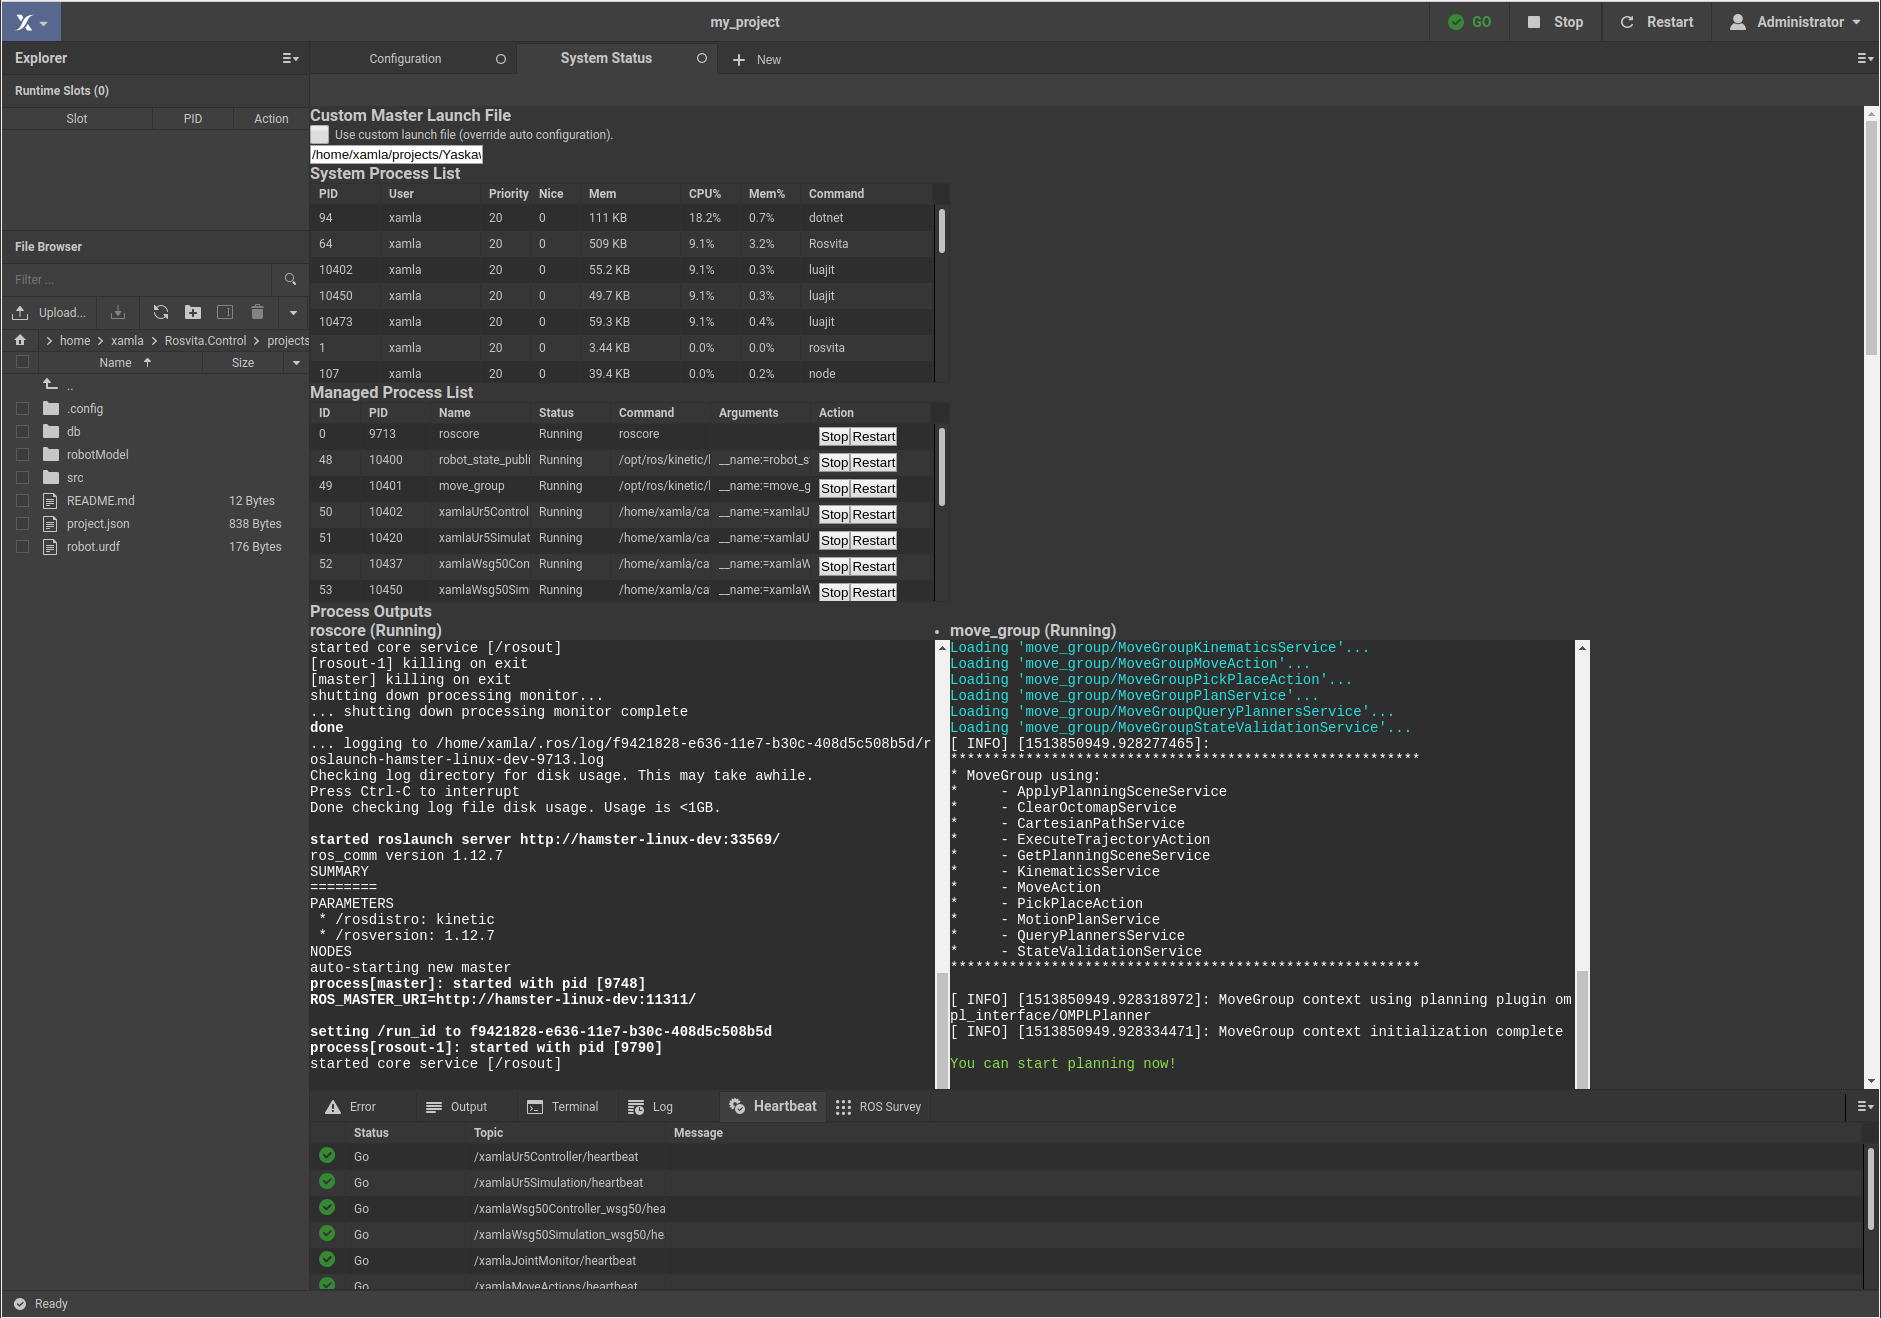
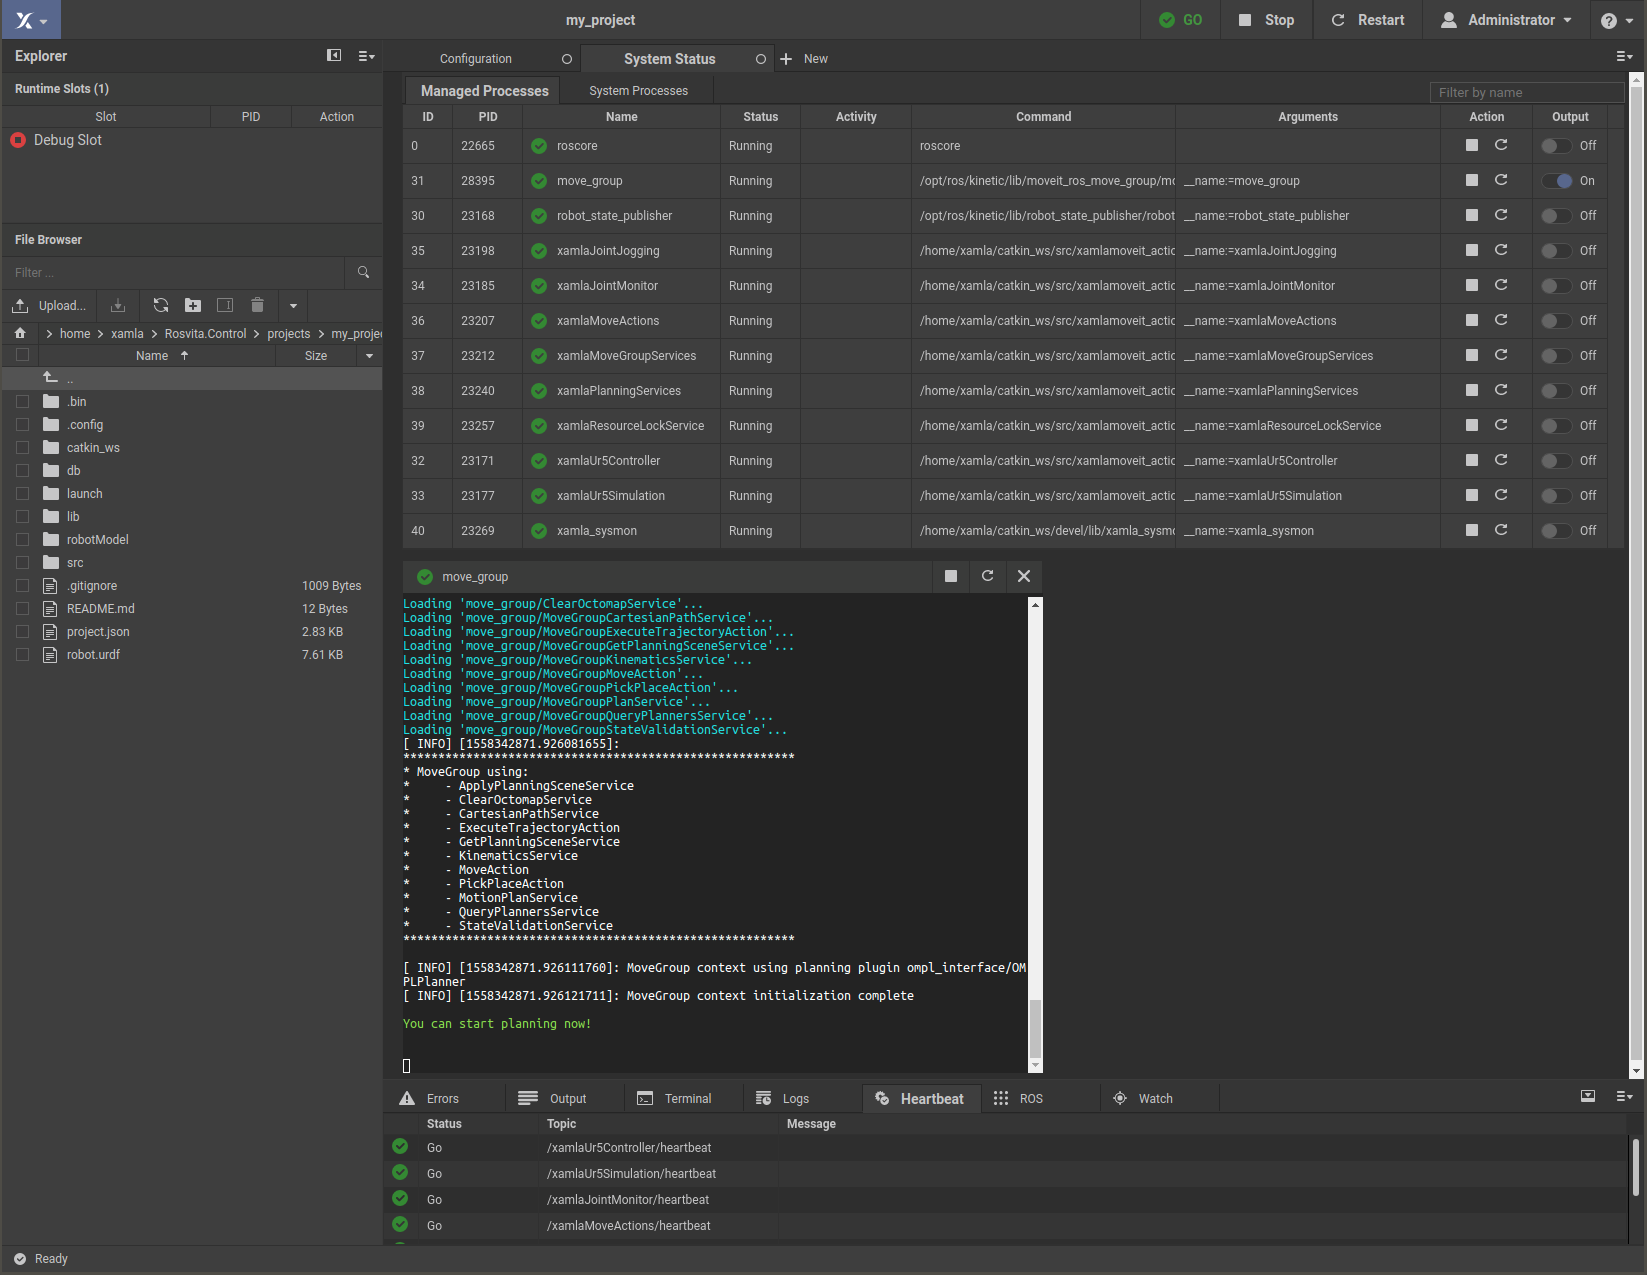
update old chapters "path planning" and "real robot"

diff --git a/source/Path_Planning.rst b/source/Path_Planning.rst
@@ -2,18 +2,24 @@
 Path Planning ("World View") 
 ******************************
 
-Once the robot configuration is complete and all ROS nodes have been successfully launched (indicated by a green **GO** with a check mark at the top bar), path planning can begin. To do this, switch to the planning view by clicking on the blue-highlighted **Xamla** symbol and selecting the menu item **World View**. A 3D view opens showing the configured robot  along with an **interactive marker** (movable coordinate system) at the **tool center point** (TCP) of the robot. Use the left mouse button to move and rotate the interactive marker. As a result, a semitransparent **ghost** of the robot will appear and follow the movements of the interactive marker. When the desired target pose is reached with the ghost, click on the **Plan** button at the top bar and a white path from the start pose to the target pose will appear (see Fig. 4.1). 
+Once the robot configuration is complete and all ROS nodes have been successfully launched (indicated by a green **GO** with a check mark at the top bar), path planning can begin. To do this, switch to the planning view by clicking on the blue-highlighted **Xamla** symbol and selecting the menu item **World View**. A 3D view opens showing the configured robot  along with an **interactive marker** (movable coordinate system) at the **tool center point** (TCP) of the robot. Use the left mouse button to move and rotate the interactive marker. As a result, a semitransparent **ghost** of the robot will appear and follow the movements of the interactive marker. When the desired target pose is reached with the ghost, click on the **Plan** button at the top bar and a white path from the start pose to the target pose will appear (see Fig. 4.1). Moreover, the ghost will show the planned movement along the white path and an **Execute** and **Cancel** button appear below the top bar.
 
-.. figure:: ../images/World_View.png
+.. figure:: ../images/World_View_1.png
 
    Figure 4.1  World view with path planning for robot arm UR5.
 
 .. note:: Path planning can only be performed if the current robot configuration has been compiled and all ROS nodes have been successfully started (displayed by a green **GO** with check mark in the top bar)!
 
-After clicking on the **Execute** field, the robot moves along the displayed path to the target pose (ghost and actual robot merge). If instead you click on the **Reset ghost** button, the ghost is moved back to the current pose of the robot.
+On the **Plan** pane at the right sidebar of the world view you can adjust some plan parameters, which are the velocity scaling for the movement, the sample resolution for the path planning, the flag for collision checking, and the choice of supervised or unsupervised movement. 
+By default, the **supervised movement** is chosen. Thus, after clicking on the **Execute** button at the top bar, a slide control appears next to this button (see Fig. 4.2). If, you move the slider to the right, the robot moves along the previously displayed path in direction of the target pose and if you move the slider to the left, the robot moves in direction of the starting pose. If the target pose is reached, ghost and actual robot merge, and the slider and the **Execute** button disappear. If you disable the **Move Supervised** flag and press **Execute** after path planning, the robot moves directly to the target pose without any further user interaction.
+
+.. figure:: ../images/World_View_2.png
+
+   Figure 4.2  Supervised movement of UR5.
+
 The ghost serves as preview of the target configuration of the robot. This allows to identify and avoid collisions in advance. Instead of directly moving the ghost, you can also move an **additional interactive marker** to a target pose. Thereto, double click into the scene and a second interactive marker will appear. Move this marker to the desired pose, click with the right mouse button into the scene and select the item **Move Ghost To Pose Picker**.
 
-Next to the **Plan** button at the top bar, the path planner can be selected from a list (currently **MoveIt!** or **TVP**). **TVP** stands for **Trapezoidal Velocity Profile**, which is particularly suitable for time-critical problems without obstacles in the working area of the robot. **MoveIt!** is a complex motion planning framework with collision check (i.e. self-collision as well as collision with obstacles in the scene) and based on the open motion planning library 
+Next to the **Plan** button at the top bar, the path planner can be selected from a list (currently **MoveIt!**, **TVP** or **linear move**). **TVP** stands for **Trapezoidal Velocity Profile**, which is particularly suitable for time-critical problems without obstacles in the working area of the robot. **MoveIt!** is a complex motion planning framework with collision check (i.e. self-collision as well as collision with obstacles in the scene) and based on the open motion planning library 
 `OMPL <http://ompl.kavrakilab.org/>`_ .
 Furthermore you can select the **Move group** and the **End effector** at the top bar, which especially becomes interesting with several robot arms.
 
@@ -21,3 +27,9 @@ By right-clicking in the scene, the current joint values and pose of the robot, 
 Saved joint values, poses, joint trajectories and collision objects appear in a list displayed on the left side of the **World View**. If you click on one of these saved elements, more detailed information about the selected element (e.g. names and values for the joints) appears on the right of the **World View**. When selecting stored joint values, moreover the ghost automatically moves to the corresponding location.
 
 .. note:: To save the stored joint values and poses **permanently**, the **World View** has to be saved by pressing the **Save** button at the top bar. Thereby, the joint values and poses are written to the project folder into **db/worldview.json**.
+
+
+IK Sampling
+-----------
+
+At the right sidebar of the World View, you can find a **Properties** pane, a **Planning** pane, a **Jogging** pane and finally a pane for **Inverse Kinematik (IK) Sampling**. To perform IK sampling, move the tool center point (TCP) of the robot ghost (i.e. the interactive marker) to a desired target position and press the button **Start Sampling** of the IK sampling pane. Now, Rosvita will generate all possible joint configurations of the robot with the TCP located at the target position. In the IK Sampling pane at the right, all these joint configurations are shown. Click at one of these joint configurations and the joints of the robot ghost will move into this configuration. After pressing **Plan** and **Execute** (see above), also the joints of the real robot will adopt the chosen joint configuration.

diff --git a/source/Robot_Configuration.rst b/source/Robot_Configuration.rst
@@ -12,8 +12,8 @@ a sidebar for selecting robot parts, actuators, sensors, or other ROS components
 Under the menu item **Robot Parts** of this sidebar one chooses e.g. the **UR5** from Universal Robots (i.e. the corresponding URDF and 3D model). 
 By clicking on the **Add to Project** button, the corresponding robot part is added to the current configuration.
 Under the menu item **Actuator** choose the corresponding actuator (here: **Robot Arm UR**).
-The menu bar on the left of the **Configuration** view lists the individual components of the current configuration. 
-If within this menu bar you click on the previously added robot part **UR5**, 
+The menu bar on the left of the **Configuration** view lists the individual components of the current configuration.
+After pressing the **Compile** button at the top bar (see below for a more detailed explanation), your can click on the previously added robot part **UR5** within the the left menu bar and 
 the 3D model of this robot arm including all coordinate systems of the individual joints is displayed in the 3D view. 
 Continuously pressing the left mouse button within the 3D view allows rotation, sustained press of the right mouse button allows moving the scene, and scrolling the mouse wheel will zoom in or out of the 3D scene.
 
@@ -70,6 +70,6 @@ clicking on this warning opens the overview of the system status, i.e. of all pr
 Moreover, hovering above this warning shows the status (**GO** or **NOGO**) of all nodes. This individual node status can also be seen when looking at the heartbeat output in the bottom pane.  
 By clicking on the **Restart** button in the top bar, which now replaces the **Start ROS** button, ROS will be restarted. 
 If that does not resolve the warning message, you can also restart individual crashed processes in the 
-**Managed Process List** by clicking the **Start** button next to the corresponding process. 
-In addition, the outputs and error messages of all started processes can be viewed in detail in the current system status (**Monitoring**) view. Often, also the **Logs** output pane gives helpful indications of failure causes.
+**Managed Processes** list by clicking the (re)start icon next to the corresponding process. 
+In addition, the outputs and error messages of a started/crashed process can be viewed in detail by setting the corresponding **Output** field next to the process to **On**. Often, also the **Logs** output pane gives helpful indications of failure causes.
 

diff --git a/source/Complex_Scene.rst b/source/Complex_Scene.rst
@@ -61,7 +61,7 @@ If two **identical robot arms** shall be added to the scene (e.g. **two UR5 robo
 Configuring a real robot:
 --------------------------
 
-To configure a real robot, in the **Actuator**'s **Properties** list the **Simulate** checkmark has to be removed and instead, the  IP address of the robot has to be entered (see Fig. 12.6). 
+To configure a real robot, in the **Actuator**'s **Properties** list the **Simulate** flag has to be set to **Off** and the  IP address of the robot has to be entered (see Fig. 12.6). 
 
 .. figure:: ../images/Real_Robot.png
 
@@ -69,5 +69,5 @@ To configure a real robot, in the **Actuator**'s **Properties** list the **Simul
 
 .. note:: All USB devices (e.g. cameras) have to be plugged in before starting ROSVITA.
 
-... to be continued
+After pressing **Compile** and **Start ROS**, go into the Rosvita World View. If you have a Motoman SDA10 robot configuration, with the corresponding teach pendant go into **remote state**. Then choose your robot in the folder **Plugins** on the left of the Rosvita World View. In the corresponding **Properties** pane at the right sidebar click at the **Enable Robot** button and your robot will be ready to move. All other features like path planning and robot jogging are the same as in the simulation mode.
 
